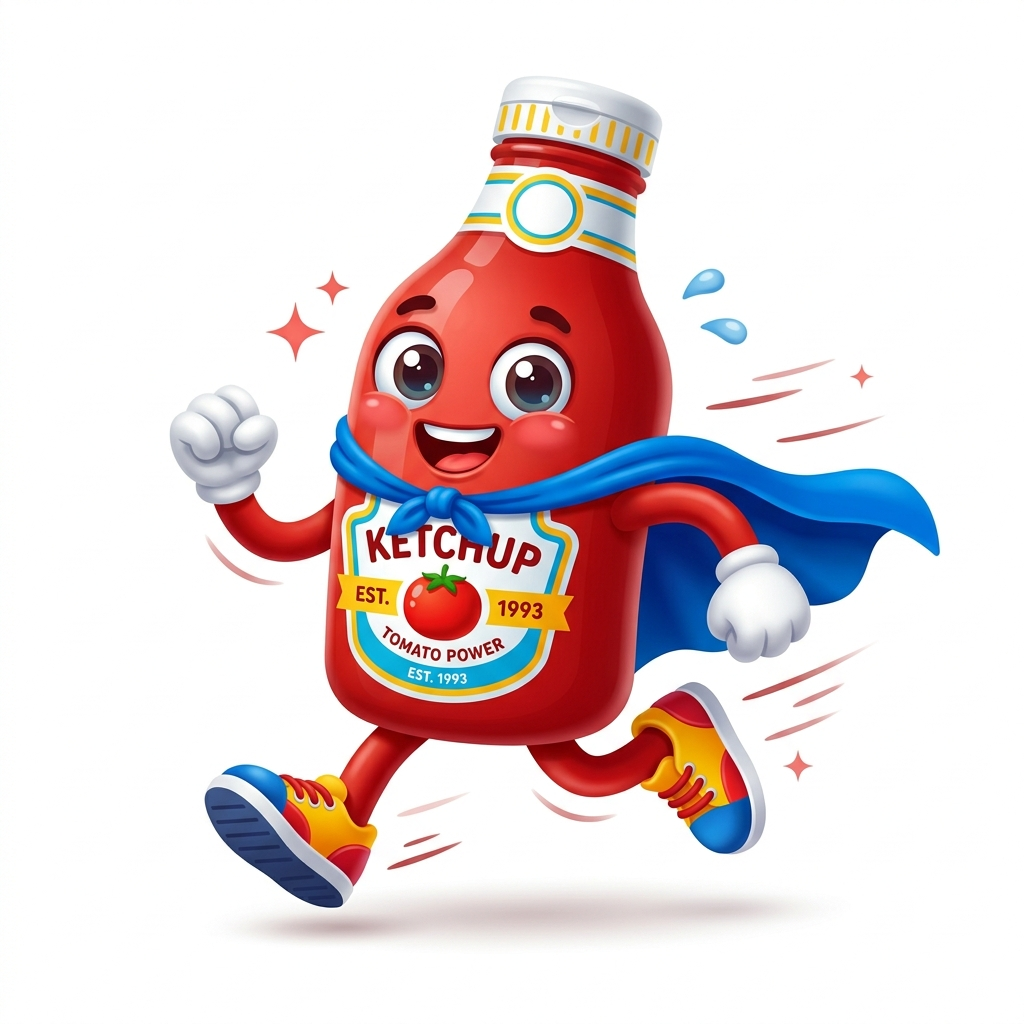
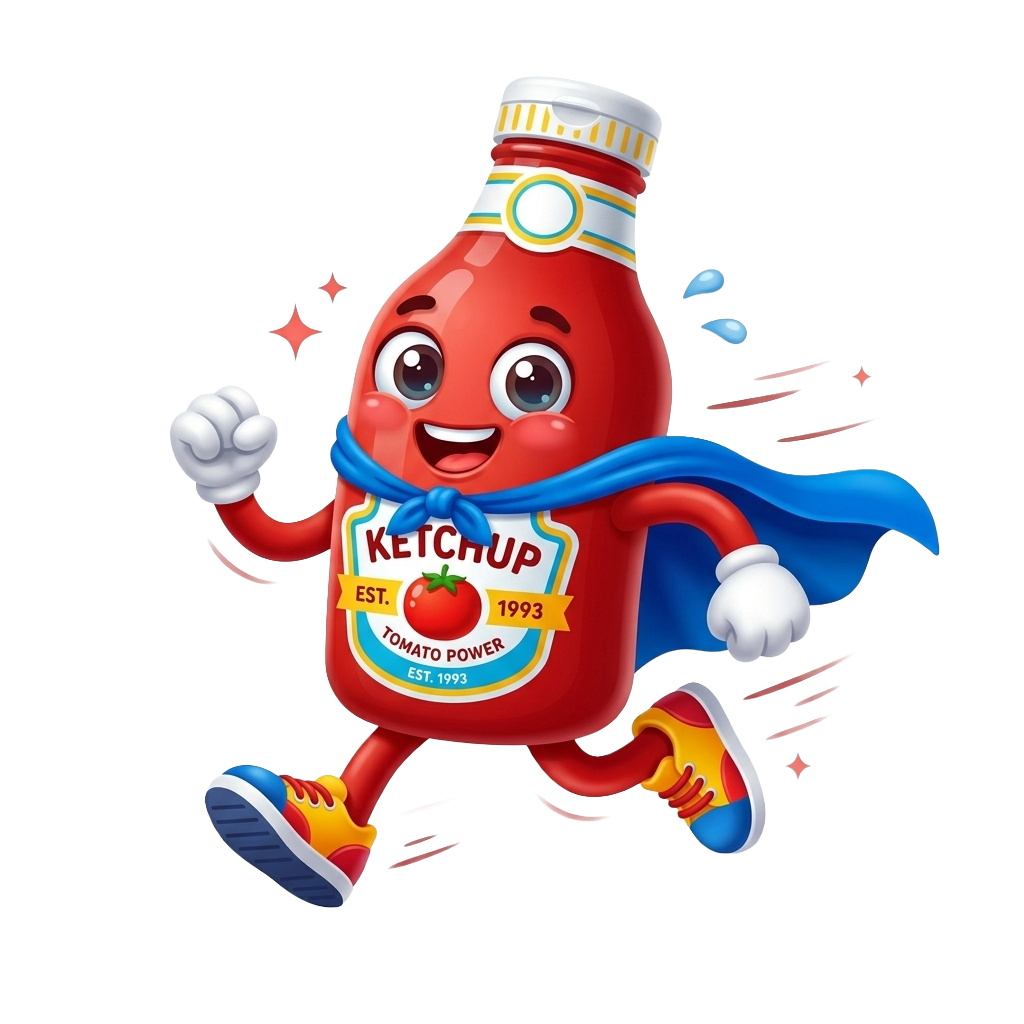
update: games hub redesign, mascot duo on friends page
- new games hero section with floating emojis and speech-bubble mascot
- friends page gets a peeking mascot duo above the friends card
- add katchup_maskot_original asset, refresh katchup_mascot art
- default theme set to dark

diff --git a/app/games/page.tsx b/app/games/page.tsx
@@ -10,39 +10,52 @@ export default function Games() {
   return (
     <div className="flex min-h-screen flex-col items-center justify-center bg-background font-sans text-foreground">
       <main className="flex min-h-screen w-full flex-col items-center bg-background px-6 pb-24 pt-6 sm:px-10 lg:px-16">
-        <section className="relative w-full max-w-6xl py-12 md:py-16 flex flex-col md:flex-row items-center justify-between gap-6 md:gap-8">
-          {/* Subtle decorative glow in background */}
-          <div className="absolute -left-10 -top-10 -z-10 h-72 w-72 rounded-full bg-blue-500/10 blur-3xl dark:bg-blue-600/5" />
-          <div className="absolute left-1/3 top-10 -z-10 h-64 w-64 rounded-full bg-indigo-500/5 blur-3xl dark:bg-indigo-600/5" />
+        <section className="relative w-full max-w-6xl overflow-hidden py-14 md:py-20">
+          {/* Decorative glow / mesh background */}
+          <div className="absolute -left-16 -top-16 -z-10 h-80 w-80 rounded-full bg-blue-500/15 blur-3xl dark:bg-blue-600/10" />
+          <div className="absolute right-0 top-4 -z-10 h-72 w-72 rounded-full bg-purple-500/10 blur-3xl dark:bg-purple-600/10" />
+          <div className="absolute left-1/2 bottom-0 -z-10 h-56 w-56 -translate-x-1/2 rounded-full bg-indigo-500/10 blur-3xl dark:bg-indigo-600/10" />
 
-          {/* Left Column (Content) */}
-          <div className="flex-1 text-left w-full">
+          {/* Floating decorative emojis */}
+          <span className="animate-float-medium absolute left-4 top-6 -z-10 hidden text-4xl opacity-70 sm:block md:left-10">
+            🎯
+          </span>
+          <span className="animate-float-fast absolute right-6 top-2 -z-10 hidden text-3xl opacity-60 sm:block md:right-16">
+            ⚡
+          </span>
+          <span className="animate-float-slow absolute bottom-4 left-1/4 -z-10 hidden text-3xl opacity-50 sm:block">
+            🏆
+          </span>
+
+          <div className="flex flex-col items-center text-center">
             <span className="inline-flex items-center gap-1.5 rounded-full bg-blue-50 px-3.5 py-1.5 text-xs font-semibold uppercase tracking-wider text-blue-700 dark:bg-blue-950/40 dark:text-blue-400">
               <span className="h-1.5 w-1.5 rounded-full bg-blue-500 dark:bg-blue-400 animate-pulse" />
               Online Games
             </span>
 
-            <h1 className="mt-6 text-3xl font-black tracking-tight text-slate-900 dark:text-white sm:text-5xl lg:text-6xl">
-              Pick a game{" "}
-              <span className="bg-gradient-to-r from-blue-600 via-indigo-600 to-purple-600 bg-clip-text text-transparent dark:from-blue-400 dark:via-indigo-400 dark:to-purple-400 whitespace-nowrap">
-                and jump in.
+            <h1 className="mt-6 max-w-3xl text-4xl font-black leading-tight tracking-tight text-slate-900 dark:text-white sm:text-6xl lg:text-7xl">
+              Learn words{" "}
+              <span className="bg-gradient-to-r from-blue-600 via-indigo-600 to-purple-600 bg-clip-text text-transparent dark:from-blue-400 dark:via-indigo-400 dark:to-purple-400">
+                by playing.
               </span>
             </h1>
-            <p className="mt-6 max-w-3xl text-base leading-relaxed text-slate-600 dark:text-slate-300 sm:text-lg">
-              Practice vocabulary with fast rounds, live competition, and
-              adaptive challenge levels. Everything here is built to feel like
-              play, not homework.
-            </p>
-          </div>
 
-          {/* Right Column (Mascot) */}
-          <div className="flex items-center justify-center md:justify-end w-full md:w-auto shrink-0">
-            {/* Mascot Container with entry and hover animations */}
-            <div className="animate-mascot-appear relative h-36 w-36 sm:h-44 sm:w-44 md:h-48 md:w-48 lg:h-56 lg:w-56">
+            <p className="mt-6 max-w-2xl text-base leading-relaxed text-slate-600 dark:text-slate-300 sm:text-lg">
+              Practice vocabulary with fast rounds, live competition, and
+              adaptive challenge levels. Everything here is built to feel
+              like play, not homework.
+            </p>
+
+            {/* Mascot with speech bubble */}
+            <div className="animate-mascot-appear relative mt-10 flex flex-col items-center">
+              <div className="relative mb-2 rounded-2xl bg-white px-4 py-2 text-sm font-semibold text-slate-700 shadow-md ring-1 ring-slate-200 dark:bg-slate-800 dark:text-slate-200 dark:ring-slate-700">
+                Ready to play? 👋
+                <span className="absolute -bottom-1.5 left-1/2 h-3 w-3 -translate-x-1/2 rotate-45 bg-white dark:bg-slate-800" />
+              </div>
               <img
-                src="/katchup_mascot.png"
+                src="/katchup_maskot_original.png"
                 alt="KatchUp Mascot"
-                className="h-full w-full object-contain animate-float-slow select-none pointer-events-none"
+                className="h-48 w-48 select-none object-contain animate-float-mascot pointer-events-none sm:h-60 sm:w-60 md:h-72 md:w-72"
               />
             </div>
           </div>

diff --git a/app/friends/page.tsx b/app/friends/page.tsx
@@ -491,8 +491,22 @@ export default function FriendsPage() {
           </aside>
 
           {/* RIGHT: quest + friends */}
-          <div className="flex flex-col gap-8">
-            <section className="rounded-[2.25rem] border border-white/70 bg-white/80 p-6 shadow-[0_20px_50px_-24px_rgba(56,189,248,0.35)] backdrop-blur-xl dark:border-white/[0.14] dark:bg-white/[0.03] sm:p-8">
+          <div className="relative flex flex-col gap-8">
+            {/* Mascot duo peeking in from above, bottom half tucked behind the cards below */}
+            <div className="pointer-events-none absolute -top-12 left-1/2 z-0 flex -translate-x-1/2 items-end justify-center gap-3 sm:-top-16 sm:gap-6">
+              <img
+                src="/katchup_maskot_original.png"
+                alt="KatchUp Mascot"
+                className="h-32 w-32 select-none object-contain sm:h-48 sm:w-48 md:h-56 md:w-56"
+              />
+              <img
+                src="/katchup_mascot.png"
+                alt="Ketchup buddy"
+                className="h-32 w-32 select-none object-contain sm:h-44 sm:w-44 md:h-52 md:w-52"
+              />
+            </div>
+
+            <section className="relative z-10 mt-24 rounded-[2.25rem] border border-white/70 bg-white/80 p-6 shadow-[0_20px_50px_-24px_rgba(56,189,248,0.35)] backdrop-blur-xl dark:border-white/[0.14] dark:bg-white/[0.03] sm:p-8 sm:mt-34">
               <div className="flex items-center justify-between gap-3">
                 <h3 className="inline-flex items-center gap-2 text-4xl font-bold text-slate-900 dark:text-white">
                   My friends

diff --git a/app/globals.css b/app/globals.css
@@ -145,6 +145,22 @@ body {
   animation: float 9s ease-in-out infinite;
 }
 
+@keyframes float-mascot {
+  0% {
+    transform: translateY(0px) translateX(0px) rotate(0deg);
+  }
+  50% {
+    transform: translateY(-14px) translateX(7px) rotate(2.8deg);
+  }
+  100% {
+    transform: translateY(0px) translateX(0px) rotate(0deg);
+  }
+}
+
+.animate-float-mascot {
+  animation: float-mascot 9s ease-in-out infinite;
+}
+
 .animate-float-medium {
   animation: float-reverse 7s ease-in-out infinite;
 }

diff --git a/app/layout.tsx b/app/layout.tsx
@@ -36,7 +36,7 @@ export default async function RootLayout({
       >
         <ThemeProvider
           attribute="class"
-          defaultTheme="auto"
+          defaultTheme="dark"
           enableSystem
           enableColorScheme
         >
